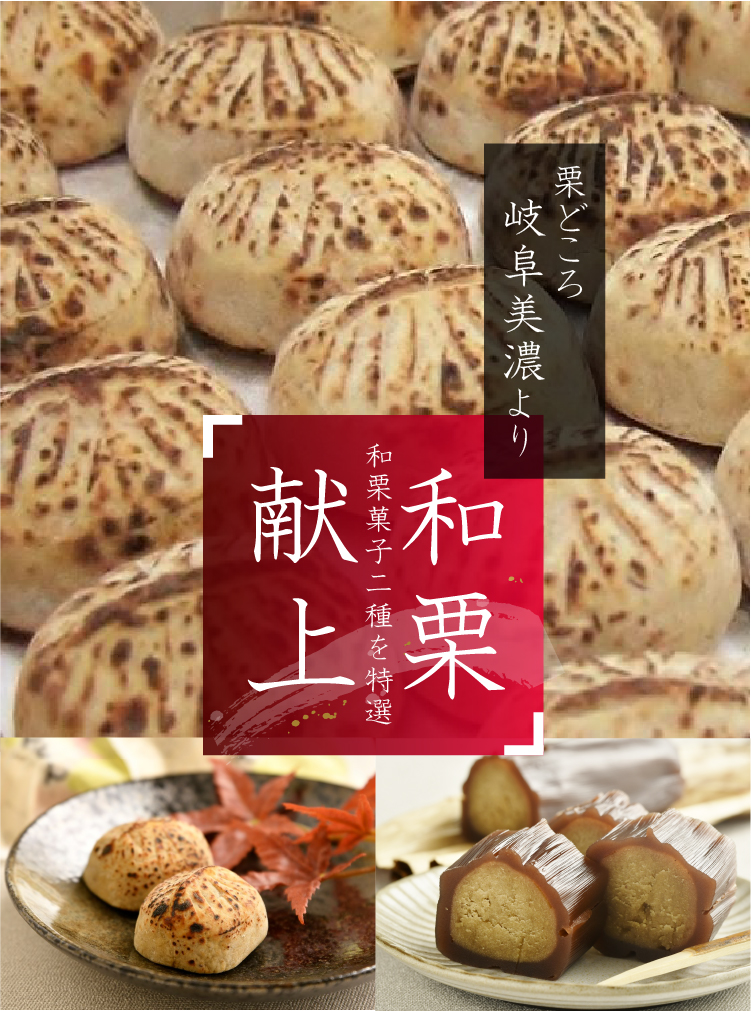
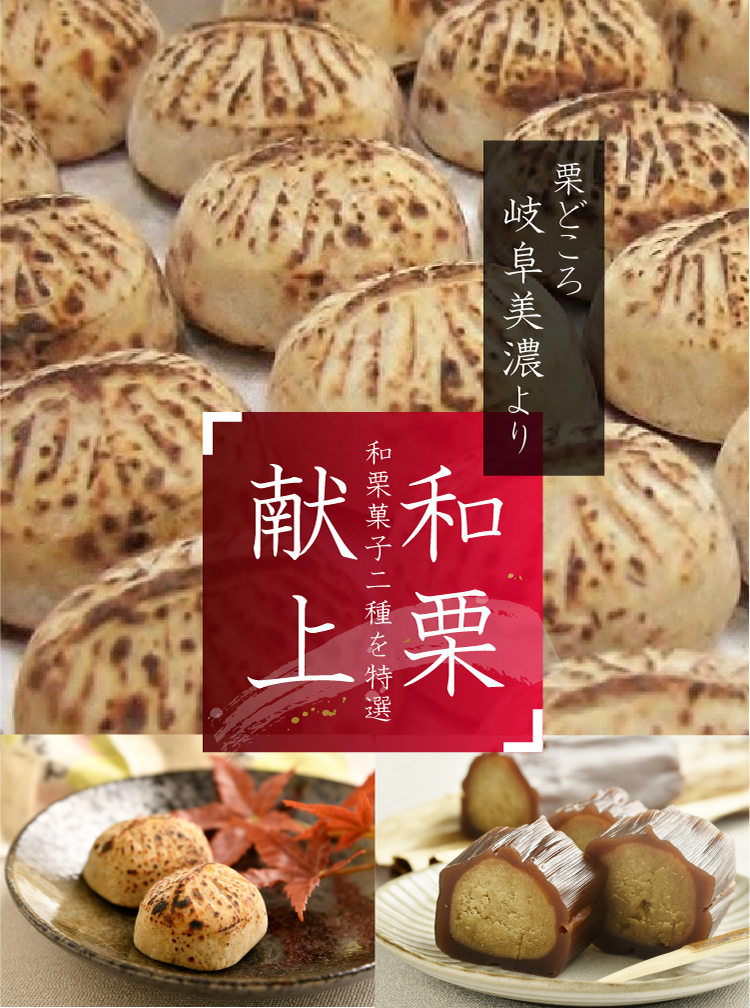
栗ごころタイトルまで

diff --git a/kurikinton/index.html b/kurikinton/index.html
@@ -56,7 +56,8 @@
     <div id="wrapper" class="page_top">
         <main>
             <div class="mainImg">
-                <h1><img src="images/top/img_main-01.jpg" alt="栗と小豆の贅沢なおいしさ「松峰 栗ごころ」">
+                <h1><img class="sp" src="images/top/img_main-01.jpg" alt="栗どころ岐阜美濃より和栗献上">
+                    <img class="pc" src="images/top/img_main-01.jpg@2x-100.jpg" alt="栗どころ岐阜美濃より和栗献上">
                 </h1>
 
                 <div class="main_flex">
@@ -65,19 +66,20 @@
                         <dd>「栗きんとん」の美味しさそのまま、日持ちする焼き栗きんとんに仕上げました。職人が一つひとつ丁寧に手作りしています。</dd>
                     </dl>
                     <dl>
-                        <dt><h4>焼きくりきんとん</h4></dt>
-                        <dd>「栗きんとん」の美味しさそのまま、日持ちする焼き栗きんとんに仕上げました。職人が一つひとつ丁寧に手作りしています。</dd>
+                        <dt><h4><span>栗きんとん羊羹</span> 『栗ごころ』</h4></dt>
+                        <dd>しっとりなめらかな栗きんとんを、小豆香る羊羹の中に閉じ込めました。竹皮で包みじっくりと蒸すことで、美味しさを引き出します。</dd>
                     </dl>
                 </div>
                 <img src="images/top/img_main02.jpg" alt="ご褒美、手土産、おもてなし、贈答品などに">
             </div>
 
             <section class="content_read yaki">
-                <div class="yakiImg">
-                    <img src="images/top/img_main03.png" alt="岐阜美濃焼き栗きんとん">
-                </div>
-
                 <div class="content-wrap">
+                    <div class="yakiImg">
+                        <img src="images/top/img_main03.png" alt="岐阜美濃焼き栗きんとん">
+                    </div>
+
+
                     <p>通常の栗きんとんはお日持ちが2～3日と短く、遠方へのお土産には適していませんでした。「遠方へ贈りたい」「もっとゆっくり味わいたい」という声に応えて生まれたのが、１ヶ月以上保存できる焼き栗きんとんです。添加物は一切使用せず、国産栗と少量の和三盆糖、水飴のみを使い、職人による特殊製法によって実現。栗きんとん本来の旨みと上品な甘さ、しっとりとした口当たりに、表面を焼き上げて焦げ目をつけることで焼き栗のような香ばしさをプラスしました。</p>
 
                     <div class="shop_area">
@@ -92,8 +94,72 @@
                                 <span>購入はこちらから</span></a>
                         </div>
                     </div>
+
+
+                    <div class="shop_area">
+                        <img src="images/top/tit_yaki02.svg" alt="焼き栗きんとん">
+                        <div class="content_entry_flex">
+                            <p>香ばしく焼き上がった日持ちの良い栗きんとんと、上品に小豆が香るなめらか羊羹。上質和栗の旨味が引き立つ二種の特撰和菓子セットです。</p>
+                            <img src="images/top/shop_yaki02.jpg" alt="焼きくりこんとん10個入り">
+                        </div>
+                        <div class="btn_link-entry">
+                            <a href="https://lifee-stars.com/collections/%E3%82%B9%E3%82%A4%E3%83%BC%E3%83%84/products/%E6%9D%BE%E5%B3%B0-%E6%A0%97%E3%81%94%E3%81%93%E3%82%8D-2%E6%9C%AC%E5%8C%96%E7%B2%A7%E7%AE%B1%E5%85%A5%E3%82%8A" onclick="gtag('event', 'banner', {'event_category': 'click', 'event_label': 'entry_btn', 'value': '0'});"
+                                target="_blank" class="btn_link-brown">
+                                <span>購入はこちらから</span></a>
+                        </div>
+                    </div>
+
+
+                    <div class="shop_area">
+                        <img src="images/top/tit_yaki03.svg" alt="焼き栗きんとん">
+                        <div class="content_entry_flex">
+                            <p>１個ずつ丁寧に個包装。ご自宅用はもちろん、お手土産や贈り物にもおすすめ。</p>
+                            <img src="images/top/shop_yaki03.jpg" alt="焼きくりこんとん10個入り">
+                        </div>
+                        <div class="btn_link-entry">
+                            <a href="https://lifee-stars.com/collections/%E3%82%B9%E3%82%A4%E3%83%BC%E3%83%84/products/%E6%9D%BE%E5%B3%B0-%E6%A0%97%E3%81%94%E3%81%93%E3%82%8D-2%E6%9C%AC%E5%8C%96%E7%B2%A7%E7%AE%B1%E5%85%A5%E3%82%8A" onclick="gtag('event', 'banner', {'event_category': 'click', 'event_label': 'entry_btn', 'value': '0'});"
+                                target="_blank" class="btn_link-brown">
+                                <span>購入はこちらから</span></a>
+                        </div>
+                    </div>
+
+
+
                 </div>
             </section>
+            <!-- ここから栗ごころ -->
+            <section class="content_read kurigokoro">
+                <div class="content-wrap">
+                    <div class="kurigogoro_tit">
+                        岐阜美濃 <br><span> 栗きんとん羊羹『栗ごころ』</span>
+                    </div>
+                </div>
+
+                <div class="content-inner">
+                    <img src="images/top/img_kurigogoro01.png" alt="岐阜美濃栗きんとん羊羹栗ごころ">
+                </div>
+
+                <div class="content-wrap">
+                    <p>和栗の旨みと甘さを生かした自家製栗きんとんを、国産小豆と岐阜県産糸寒天で炊き上げた羊羹と竹皮で包みます。その後、蒸すことで羊羹が一度とろとろになるため、羊羹の甘さが栗きんとんに馴染み、おいしさを引き出します。時間をかけてじっくりと蒸し上げることで、余分な甘みが落ち、栗と小豆の香りが際立ち上品な味わいに。 従来の栗きんとんよりしっとりとした口当たりで、羊羹のなめらかさとよく合います。
+                    </p>
+
+                    <div class="shop_area">
+                        <img src="images/top/tit_yaki03.svg" alt="焼き栗きんとん">
+                        <div class="content_entry_flex">
+                            <p>１個ずつ丁寧に個包装。ご自宅用はもちろん、お手土産や贈り物にもおすすめ。</p>
+                            <img src="images/top/shop_yaki03.jpg" alt="焼きくりこんとん10個入り">
+                        </div>
+                        <div class="btn_link-entry">
+                            <a href="https://lifee-stars.com/collections/%E3%82%B9%E3%82%A4%E3%83%BC%E3%83%84/products/%E6%9D%BE%E5%B3%B0-%E6%A0%97%E3%81%94%E3%81%93%E3%82%8D-2%E6%9C%AC%E5%8C%96%E7%B2%A7%E7%AE%B1%E5%85%A5%E3%82%8A" onclick="gtag('event', 'banner', {'event_category': 'click', 'event_label': 'entry_btn', 'value': '0'});"
+                                target="_blank" class="btn_link-brown">
+                                <span>購入はこちらから</span></a>
+                        </div>
+                    </div>
+                </div>
+            </section>
+
+
+
 
             <section class="content_sup">
                 <div class="content-inner">

diff --git a/kurikinton/css/style.css b/kurikinton/css/style.css
@@ -370,6 +370,7 @@ footer address {
     font-family: 'Noto Serif JP';
     font-size: 80%;
     line-height: 1.2em;
+    /* letter-spacing: -0.1em; */
 }
 
 .main_flex dl {
@@ -377,10 +378,28 @@ footer address {
 }
 
 .main_flex h4 {
-    font-size: 1.8rem;
+    font-size: 1.6rem;
     font-weight: bold;
     color: #660000;
     margin-bottom: 0.9rem;
+    letter-spacing: 0rem;
+}
+
+.main_flex span {
+    font-size: 0.3rem;
+}
+
+@media screen and (min-width: 768px) {
+    .main_flex h4 {
+        font-size: 2.6rem;
+        font-weight: bold;
+        color: #660000;
+        margin-bottom: 1.9rem;
+        letter-spacing: 0rem;
+    }
+    .main_flex span {
+        font-size: 2rem;
+    }
 }
 
 
@@ -420,6 +439,9 @@ footer address {
     background: url("../img/top/bg_read-02.png") no-repeat left bottom;
     background-size: contain; } */
 
+
+/* 焼きくりきんとんここから */
+
 .yakiImg {
     max-width: 1000px;
     margin: auto;
@@ -428,16 +450,26 @@ footer address {
 
 .content_read.yaki {
     font-family: 'Noto Serif JP';
-    margin-bottom: 0.5em;
+    background-image: url("../images/top/bg_main-01.jpg");
+}
+
+.content_read.yaki p {
+    margin: 0px 0 30px;
 }
 
 
-/* ショップエリア */
+/* 焼きくり　ショップエリア */
 
 .shop_area {
-    padding: 30px 15px;
+    background-color: white;
+    padding: 30px;
     box-shadow: 3px 0 8px #ccc, -3px 0 8px #ccc;
     position: relative;
+    margin-bottom: 30px;
+}
+
+.content_read.yaki .shop_area p {
+    margin-right: 2rem;
 }
 
 .shop_area div p,
@@ -453,8 +485,9 @@ footer address {
     .shop_area div img {
         width: 35%;
         position: absolute;
-        top: 0;
-        right: 0;
+        top: 30px;
+        right: 30px;
+        margin-bottom: 10px;
     }
     .shop_area .btn_link-entry {
         margin-top: 60px;
@@ -462,7 +495,45 @@ footer address {
 }
 
 
-/* ショップエリアここまで */
+/*焼きくりきんとん ここまで */
+
+
+/* 栗ごころ　ここから */
+
+.content_read.kurigokoro {
+    text-align: center;
+    font-family: 'Noto Serif JP';
+}
+
+.kurigogoro_tit,
+.kurigogoro_tit span {
+    font-weight: bold;
+    font-size: 2.2rem;
+    line-height: 50px;
+    color: #651815;
+    color: rgb(101, 24, 21);
+    line-height: 4rem;
+    margin-bottom: 30px;
+}
+
+.kurigogoro_tit span {
+    font-size: 2.5rem;
+    border-top: 1px solid rgb(101, 24, 21);
+    border-bottom: 1px solid rgb(101, 24, 21);
+}
+
+@media screen and (min-width: 768px) {
+    .kurigogoro_tit {
+        font-size: 3rem;
+        line-height: 2
+    }
+    .kurigogoro_tit span {
+        font-size: 4rem;
+    }
+}
+
+
+/* 栗こころ　ここまで */
 
 .page_top .content_startBuy {
     background-color: #F5E8C9;
@@ -903,7 +974,7 @@ footer address {
     background-size: 23px;
     font-weight: 900;
     letter-spacing: 0.05em;
-    font-size: 1.5rem;
+    font-size: 2rem;
     padding-right: 24px;
 }
 
